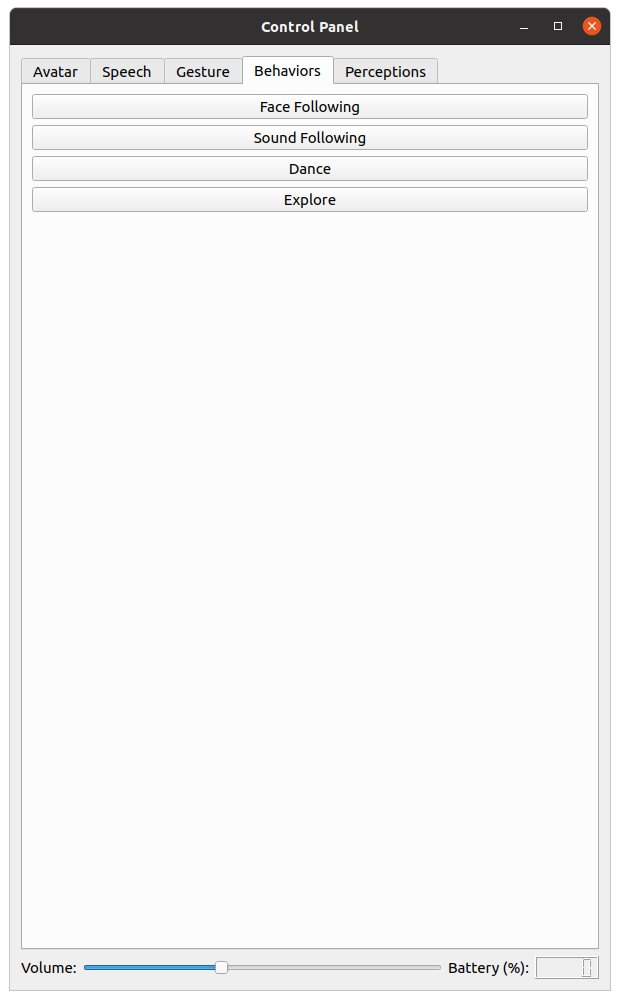
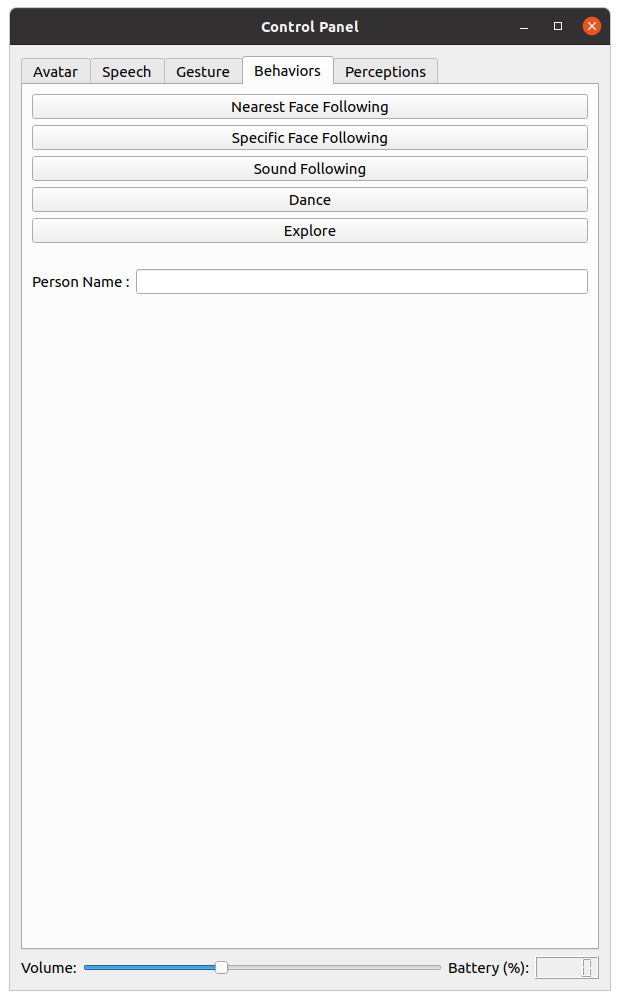
Add the missing doc. Remove the TODOs.

Changed region(s): [[0.3677, 0.093, 0.6435, 0.248], [0.0613, 0.279, 0.2145, 0.31], [0.9194, 0.217, 0.95, 0.248]]

diff --git a/ros/behaviors/sound_following/scripts/sound_following_node.py b/ros/behaviors/sound_following/scripts/sound_following_node.py
@@ -21,6 +21,7 @@ class SoundFollowingNode:
         self._min_activity = rospy.get_param('~min_activity')
         self._min_valid_source_pitch = rospy.get_param('~min_valid_source_pitch_rad')
         self._max_valid_source_pitch = rospy.get_param('~max_valid_source_pitch_rad')
+        self._direction_frame_id = rospy.get_param('~direction_frame_id')
 
         self._target_lock = threading.Lock()
         self._target_torso_yaw = None
@@ -30,11 +31,13 @@ class SoundFollowingNode:
         self._sst_sub = rospy.Subscriber('sst', OdasSstArrayStamped, self._sst_cb, queue_size=10)
 
     def _sst_cb(self, sst):
-        # TODO check frame id
         if self._movement_commands.is_filtering_all_messages:
             return
         if len(sst.sources) > 1:
             rospy.logerr(f'Invalid sst (len(sst.sources)={len(sst.sources)})')
+            return
+        if sst.header.frame_id != self._direction_frame_id:
+            rospy.logerr(f'Invalid direction frame id ({sst.header.frame_id} != {self._direction_frame_id})')
             return
         if len(sst.sources) == 0 or sst.sources[0].activity < self._min_activity:
             return

diff --git a/ros/behaviors/face_following/scripts/specific_face_following_node.py b/ros/behaviors/face_following/scripts/specific_face_following_node.py
@@ -11,9 +11,6 @@ from t_top import vector_to_angles
 from face_following.lib_face_following_node import FaceFollowingNode
 
 
-PERSON_POSE_NOSE_INDEX = 0
-
-
 class SpecificFaceFollowingNode(FaceFollowingNode):
     def __init__(self):
         super().__init__()

diff --git a/ros/behaviors/face_following/README.md b/ros/behaviors/face_following/README.md
@@ -14,10 +14,10 @@ This node makes T-Top follow the nearest face.
 - `control_frequency` (double): The frequency at which the pose messages are sent.
 - `torso_control_alpha` (double): The low-pass filter parameter for the torso pose.
 - `head_control_p_gain` (double): The controller proportional gain for the head pose.
-- `nose_confidence_threshold` (double): The confidence threshold for the nose keypoint.
 - `head_enabled` (bool): Indicates if the head will move.
 - `min_head_pitch_rad` (double): The minimum pitch angle in radian of the head.
 - `max_head_pitch_rad` (double): The maximum pitch angle in radian of the head.
+- `nose_confidence_threshold` (double): The confidence threshold for the nose keypoint.
 
 #### Subscribed Topics
 
@@ -28,8 +28,41 @@ This node makes T-Top follow the nearest face.
 
 - `opencr/head_pose` ([geometry_msgs/PoseStamped](http://docs.ros.org/en/noetic/api/geometry_msgs/html/msg/PoseStamped.html)):
   The head pose.
-- `opencr/torso_orientation` ([std_msgs/Float32](http://docs.ros.org/en/noetic/api/std_msgs/html/msg/Float32.html)): The
-  torso orientation.
+- `opencr/torso_orientation` ([std_msgs/Float32](http://docs.ros.org/en/noetic/api/std_msgs/html/msg/Float32.html)):
+  The torso orientation.
+
+#### Services
+
+- `pose/filter_state` ([hbba_lite/SetOnOffFilterState](../../hbba_lite/srv/SetOnOffFilterState.srv)): The HBBA filter
+  state service to enable or disable the behavior.
+
+
+### `specific_face_following_node.py`
+
+This node makes T-Top follow the face of the specified person.
+
+#### Parameters
+
+- `simulation` (bool): Indicates if it's used in the simulation.
+- `control_frequency` (double): The frequency at which the pose messages are sent.
+- `torso_control_alpha` (double): The low-pass filter parameter for the torso pose.
+- `head_control_p_gain` (double): The controller proportional gain for the head pose.
+- `head_enabled` (bool): Indicates if the head will move.
+- `min_head_pitch_rad` (double): The minimum pitch angle in radian of the head.
+- `max_head_pitch_rad` (double): The maximum pitch angle in radian of the head.
+- `direction_frame_id` (string): The audio analysis frame id.
+
+#### Subscribed Topics
+
+- `person_names` ([person_identification/PersonNames](../../perceptions/person_identification/msg/PersonNames.msg)):
+  The person names.
+
+#### Published Topics
+
+- `opencr/head_pose` ([geometry_msgs/PoseStamped](http://docs.ros.org/en/noetic/api/geometry_msgs/html/msg/PoseStamped.html)):
+  The head pose.
+- `opencr/torso_orientation` ([std_msgs/Float32](http://docs.ros.org/en/noetic/api/std_msgs/html/msg/Float32.html)):
+  The torso orientation.
 
 #### Services
 

diff --git a/ros/behaviors/sound_following/README.md b/ros/behaviors/sound_following/README.md
@@ -20,6 +20,7 @@ This node makes T-Top follow the loudest sound.
 - `min_activity` (double): The minimum activity level to consider the sound source valid.
 - `min_valid_source_pitch_rad` (double): The minimum pitch angle in radian to consider the sound source valid.
 - `max_valid_source_pitch_rad` (double): The maximum pitch angle in radian to consider the sound source valid.
+- `direction_frame_id` (string): The audio analysis frame id.
 
 #### Subscribed Topics
 

diff --git a/ros/demos/control_panel/README.md b/ros/demos/control_panel/README.md
@@ -21,5 +21,5 @@ perceptual nodes and widgets to show their result.
 ![Avatar](images/tab_avatar.png)
 ![Speech](images/tab_speech.png)
 ![Gesture](images/tab_gesture.png)
-![Behavior](images/tab_behaviors.png) TODO update image
+![Behavior](images/tab_behaviors.png)
 ![Perceptions](images/tab_perceptions.png)
